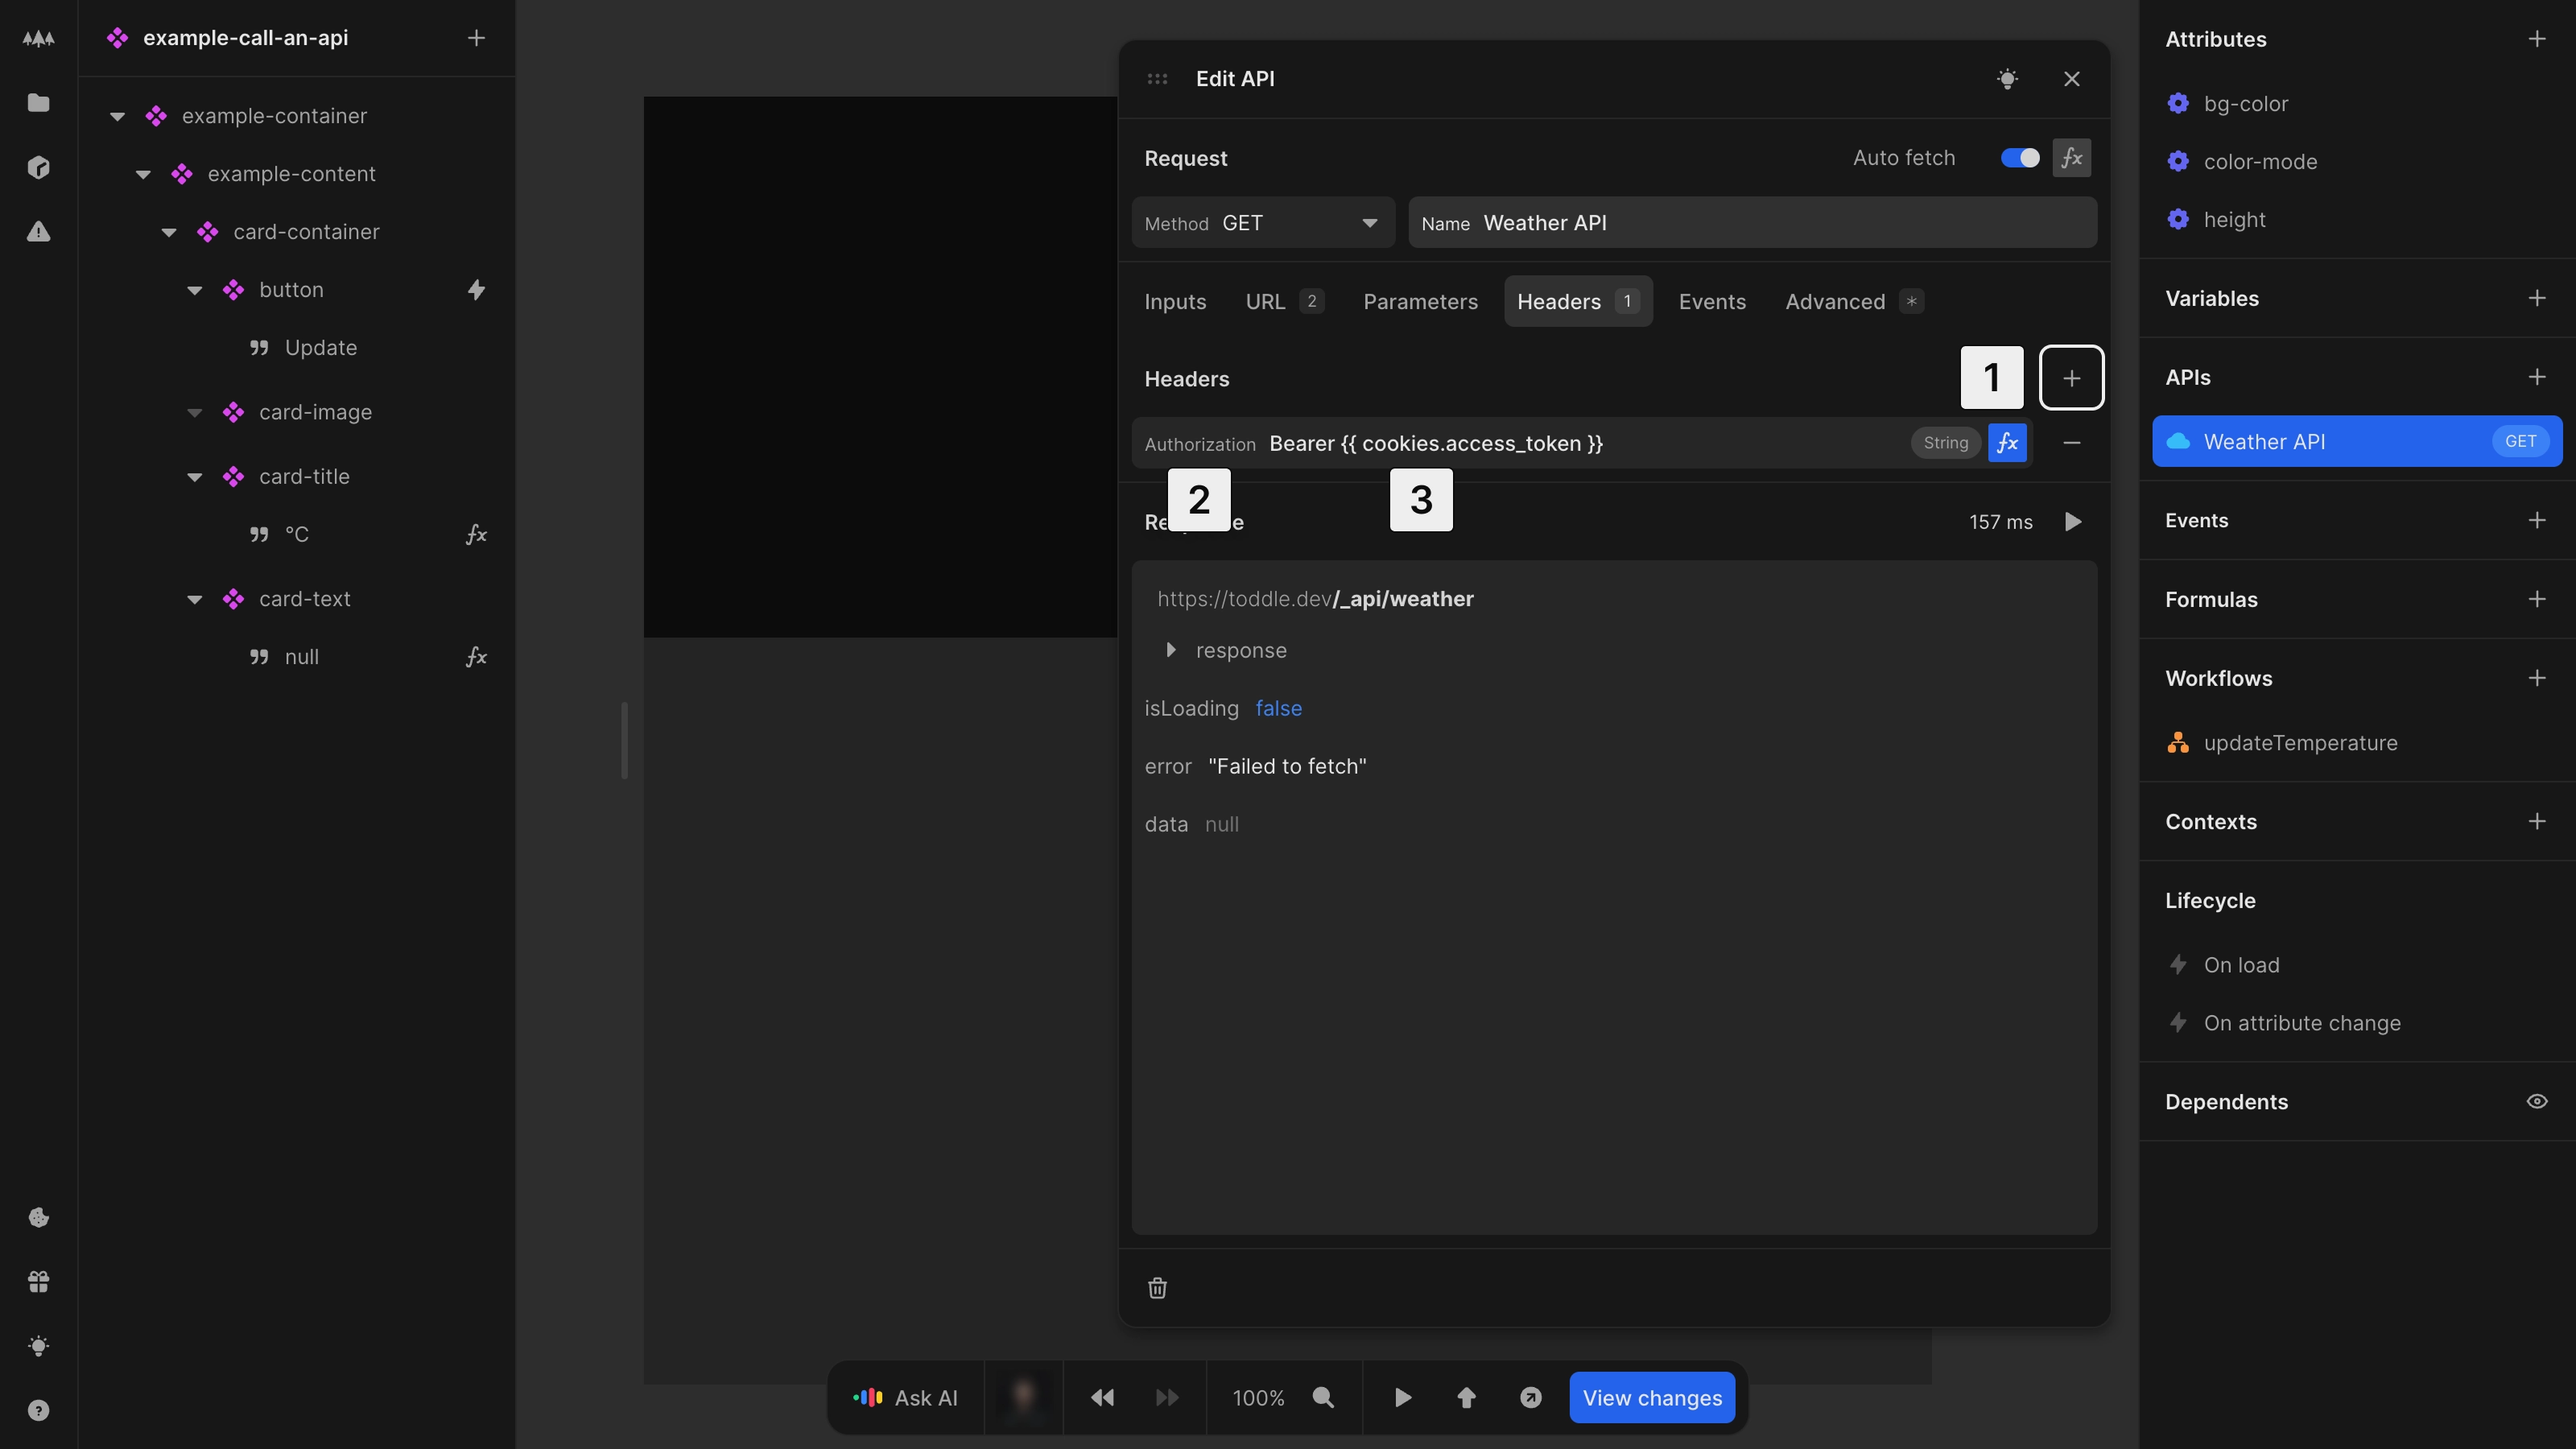
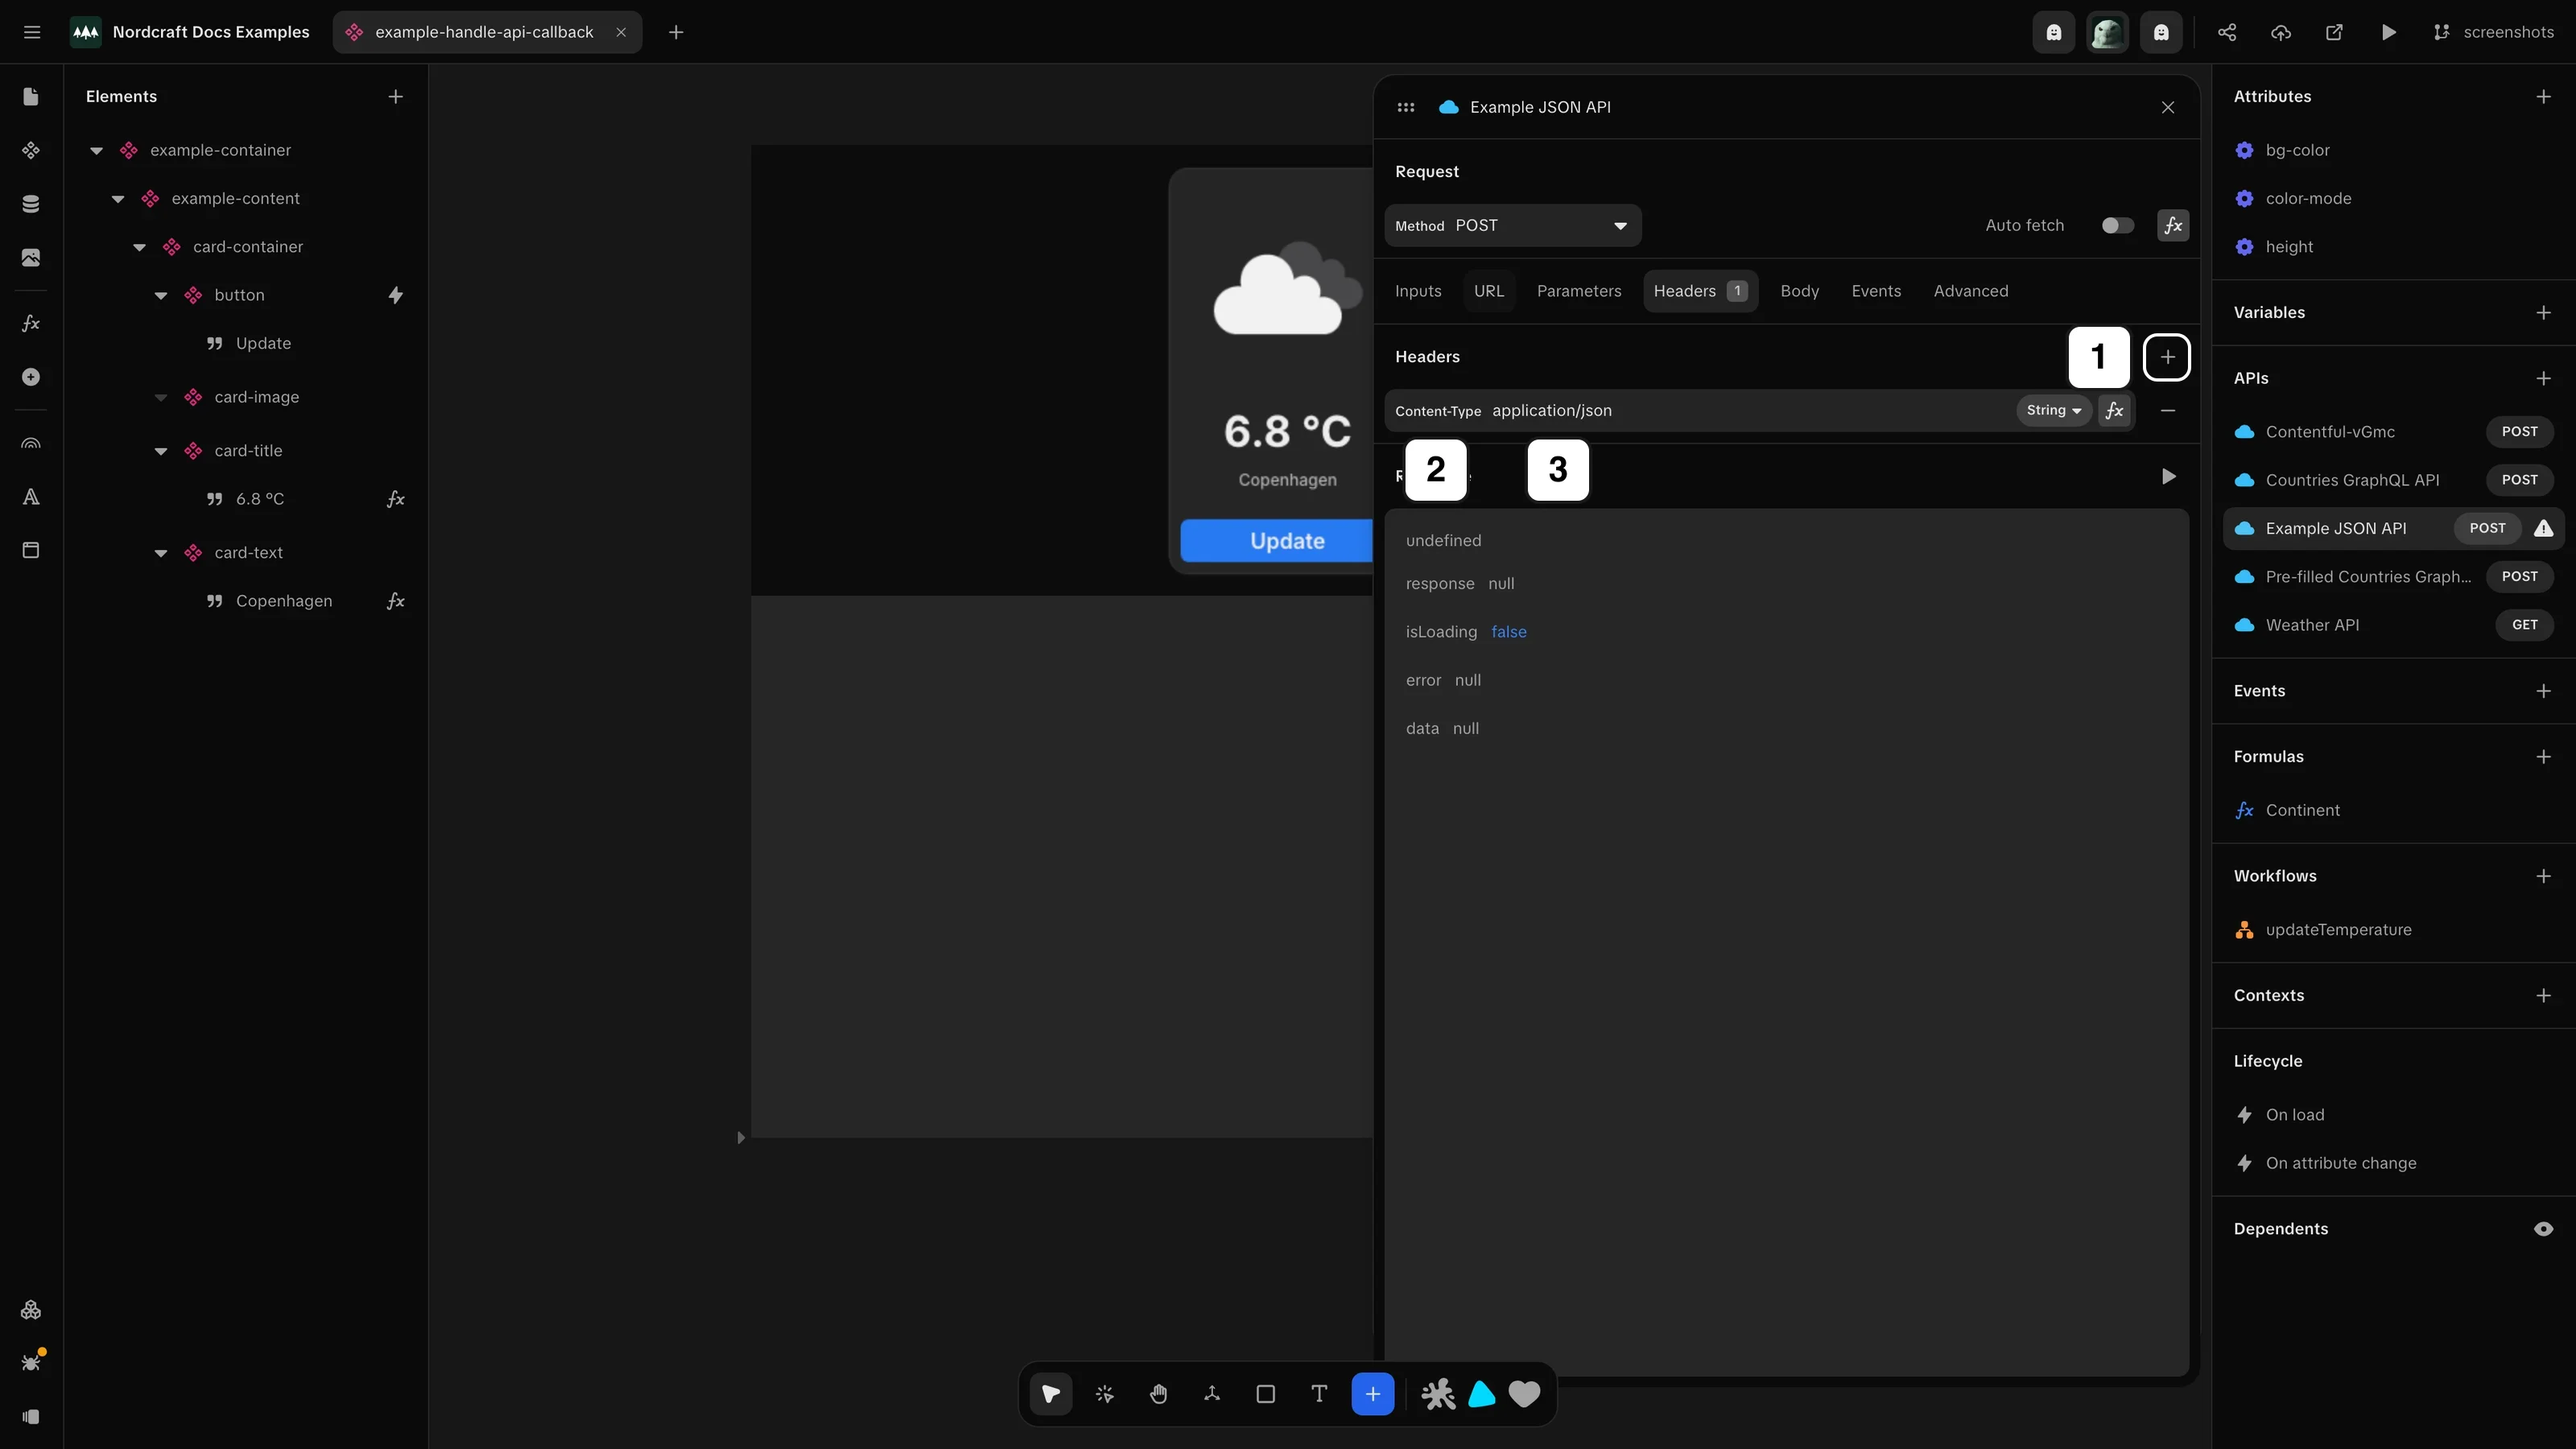
request header

diff --git a/docs/connecting-data/working-with-apis/set-a-request-header.screenshot.ts b/docs/connecting-data/working-with-apis/set-a-request-header.screenshot.ts
@@ -1,0 +1,39 @@
+import { defineScreenshot } from '@/scripts/capture-screenshots'
+import type { Page } from 'playwright'
+
+// Placeholder script for set-a-request-header.webp
+export default defineScreenshot({
+  path: '/projects/docs_examples/branches/screenshots/components/example-handle-api-callback?mode=design&canvas-tool=select&canvas-width=800&selection=apis.Example%2520JSON%2520API&rightpanel=style',
+  setup: async (page: Page) => {
+    await page.waitForTimeout(500)
+    await page.getByRole('tab', { name: 'Headers' }).click()
+  },
+  annotations: [
+    {
+      type: 'box',
+      x: 666,
+      y: 104,
+      width: 14,
+      height: 14,
+      rx: 4
+    },
+    {
+      type: 'badge',
+      x: 642,
+      y: 101,
+      text: '1'
+    },
+    {
+      type: 'badge',
+      x: 436,
+      y: 136,
+      text: '2'
+    },
+    {
+      type: 'badge',
+      x: 474,
+      y: 136,
+      text: '3'
+    }
+  ],
+})
